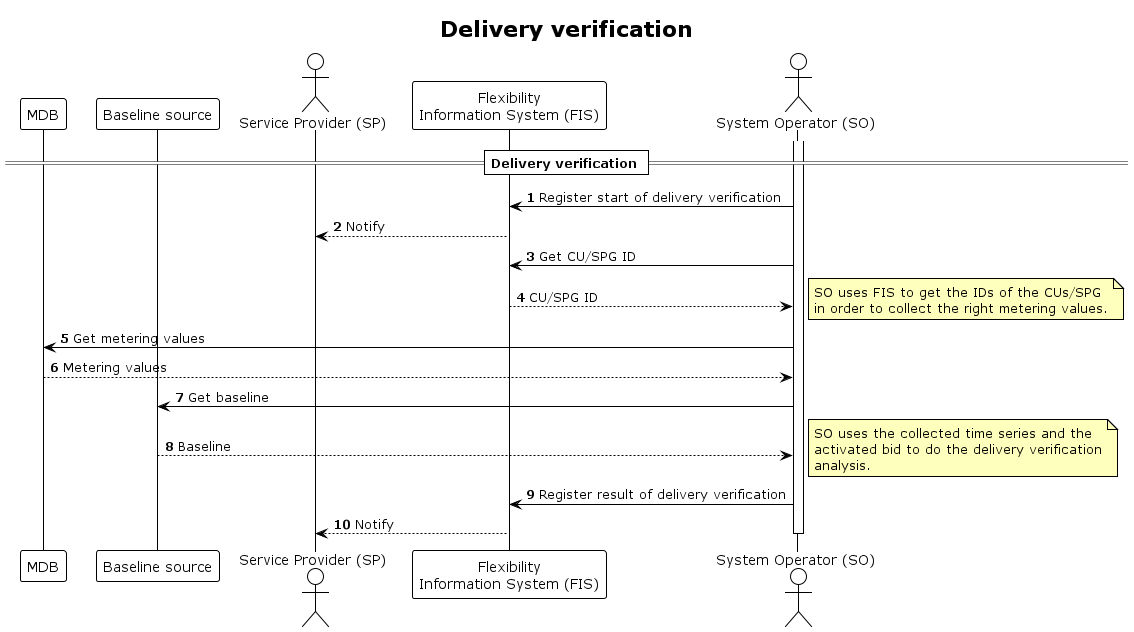
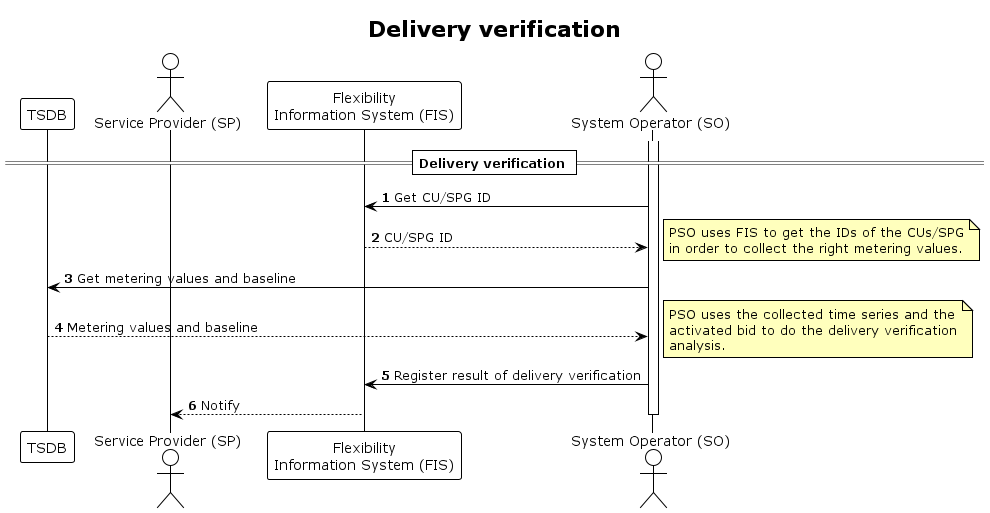
Updates after refinement meeting

diff --git a/docs/processes/delivery-verification.md b/docs/processes/delivery-verification.md
@@ -4,39 +4,46 @@ This process describres the [verification](../concepts/time-series.md#verificati
 of a delivered flexibility service and how it relates to the flexibility
 information system (FIS).
 
-Is the delivery verification result registered in the FIS? Can FIS hold overview
-of when/which verifications have been done?
+The delivery verification is done by a procuring system operator (PSO) that has
+activated a bid from the service provider.
 
-The verification analysis requires time series at an SPG level. These time series
-are/are not located in the FIS and/but they relate to the CU and SPG IDs in the
-FIS. The time series needed for the verificaion are:
+The verification analysis requires time series at an SPG level.
+The time series needed for the verificaion are:
 
 * Metering values
 * Baseline
 * Bid volume
 
-The metering values are stored in a metering database (MDB) where SP continuously
-sends the metering values of its CUs/SPGs. If the metering values are stored at
-CU level, they are aggregated to SPG level by SP.
+The metering values and baseline are stored in a time series database (TSDB).
+There is an [integration](../technical/time-series-design.md#integration) between
+the TSDB and FIS, where FIS references the time series by ID.
 
-The baseline is stored at a baseline source. SP sends/collects the baseline
-to/from the source.
+SP continuously sends _metering values_ of its CUs/SPGs to the database. The IDs
+of the time series can be matched with the IDs of the CUs and SPGs registered in
+the FIS.
 
-The bid volume is collected by SO when the bid is accepted. Alt. from the
-marketplace.
+The _baseline_ is sent by SP after a bid is offered in the marketplace, before
+the bid is accepted. The baseline is thus accessible in the TSDB after the bid
+has been activated.
 
-The delivery verification is done by a procuring system operator that has activated
-a bid from the service provider.
+The time series for the _bid volume_ is collected by SO when they accept the bid.
+Therefore the bid does not need to be sent to the TSDB.
+
+The time-resolution required for the time series used in the delivery verification
+will depend on the product requirements. In most cases, a 15-minute time resolution
+will be sufficent to verify that the delivered volumen was equal to the bid volume.
+However, if the analysis also contains a verification of the quality of the delivery,
+mroe granulated data will usually be required.
 
 ## Prerequisites
 
-* An activation of the SPG has been done.
-* SP sends metering values to the MDB continuously
+* PSO has accepted a bid from SP and activated their SPG
+* SP sent a baseline for the bid ahead of the activation to the PSO and the TSDB
+* SP continuously sends metering values to the TSDB
+* PSO has the time series for the bid
 
 ## Sequence
 
 [Full Size](../diagrams/delivery-verification.png) | [PlantUML description](../diagrams/delivery-verification.plantuml)
 
 ![Controllable Unit Update](../diagrams/delivery-verification.png)
-
-
